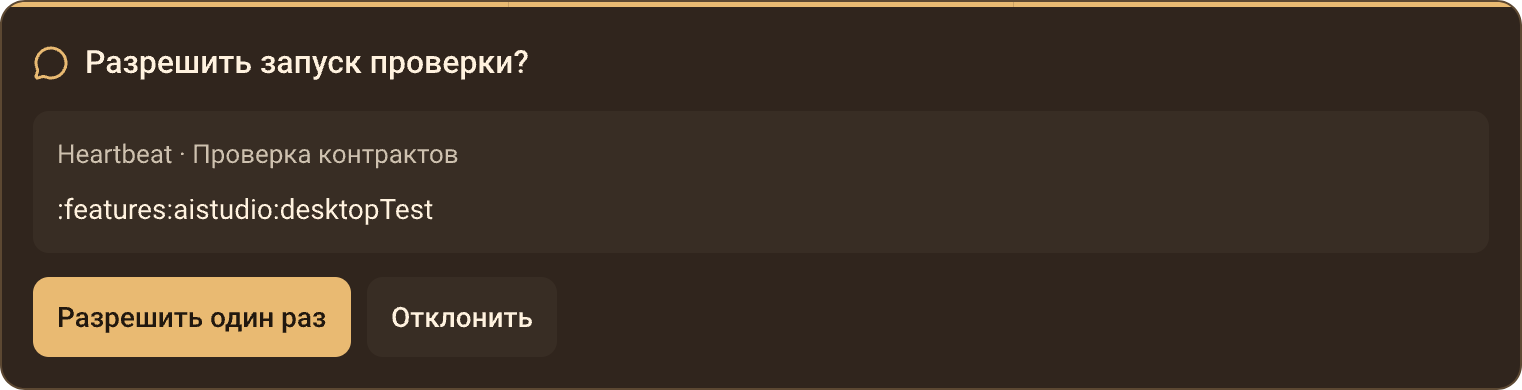
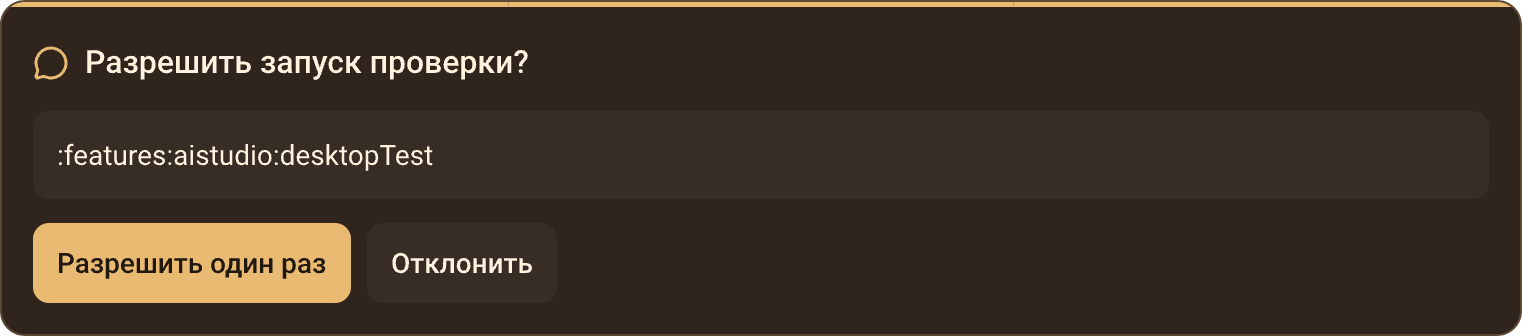
Remove redundant project label from permission details

diff --git a/plans/aurora-chat-behavior.md b/plans/aurora-chat-behavior.md
@@ -142,7 +142,7 @@ Claude Code, Sonnet 4.5, «Среднее», проценты и квота за
 - Общая структура: title запроса и навигация в шапке → короткая ошибка при наличии → содержимое ответа → поле/действия. Общая строка «Нужен ваш ответ», повторный title в теле и футер удалены по прямому поручению оператора. По последнему поручению оператора subtitle и любые вспомогательные пояснения удалены. Сверху, под шапкой, находится только ошибка локальной проверки ответа. Все ответы набора объединяются в одно сообщение или результат инструмента. При общей отправке вопросы сразу исчезают и возвращается обычное поле ввода, без ожидания сервера; при сбое ошибочным выделяется соответствующий объект истории. Ошибки отправки и кнопки «Повторить» в опроснике нет. Один вопрос за раз. При узкой ширине строки переносятся; цели Android остаются 48. Большой текст увеличивает поверхность, а не обрезается.
 - «Далее» только переключает на следующий вопрос, сохраняя локальный черновик; ничего не отправляет и не блокирует переход проверкой. «Назад» сохраняет все введённые ответы, выбранные варианты и комментарии всего набора по id вопросов; повторное открытие восстанавливает их без сброса. «Пропустить» только локально отмечает необязательный вопрос пропущенным и переключает на следующий; ничего не отправляет. Ответ на ранее пропущенный вопрос сразу снимает отметку пропуска; возврат или фокус без ответа её сохраняют. Очистка ответа сама по себе не ставит пропуск. На последнем вопросе отметка не закрывает опросник: остаётся явное «Отправить». Даже все пропуски отправляются только этой общей кнопкой. «Отправить» на последнем вопросе проверяет весь набор и отправляет все вопросы и ответы одним объектом истории. Опросник сразу исчезает, возвращается прежний черновик обычного ввода. Отправка и повтор не создают отдельные сообщения для каждого вопроса и не возвращают опросник.
 - Выбор + комментарий и собственный текст доступны при `isFreeTextAllowed`. Видимая подпись над полем и кнопка «Снять выбор» удалены. Доступное имя поля сохраняется в семантике; без выбранных вариантов текст является собственным ответом, с выбранными — комментарием. Если источник принимает только предложенные варианты, поле не показывается. Confirm с комментарием сохраняет выбранное Да/Нет и текст до общей отправки «Отправить».
-- Строгое разрешение показывает действие, цель, аргументы, контекст и область решения. «Разрешить один раз» / «Отклонить» отправляют решение напрямую. Дополнительного radio-выбора, свободного текста и общего подтверждения нет. Нажатие Enter на явно сфокусированной кнопке выполняет её действие; общий Enter не выдаёт разрешения.
+- Строгое разрешение показывает действие, цель, аргументы и область решения. Отдельная строка проекта/агента удалена. «Разрешить один раз» / «Отклонить» отправляют решение напрямую. Дополнительного radio-выбора, свободного текста и общего подтверждения нет. Нажатие Enter на явно сфокусированной кнопке выполняет её действие; общий Enter не выдаёт разрешения.
 - Полоса таймера не является индикатором отправки. Для необязательного набора бюджет из PR: 60 секунд на выбор или 120 на текст плюс чтение по 20 символов/с, до 600 секунд; начало после публикации. Навигация не перезапускает отсчёт. Обязательный/важный вопрос или Confirm отключает таймаут всего набора; строгие разрешения также без таймера. В этих случаях полоса полная и неподвижная. Общего текстового футера, в том числе «Без таймера», нет; состояние срока сохраняется в доступном описании полосы.
 - По последующему уточнению оператора любое взаимодействие с опросником, включая получение фокуса, наведение, нажатие/касание, ввод, выбор, выделение текста, прокрутку и навигацию, окончательно останавливает таймер всего набора. Полоса замирает на текущей длине; доступное состояние — «Таймер остановлен». Потеря фокуса, уход указателя, закрытие клавиатуры, переход между вопросами и восстановление сессии не возобновляют отсчёт. Таймаут возможен только до первого взаимодействия; после него оставшиеся вопросы не закрываются автоматически. Футер не возвращается.
 - Истечение срока закрывает без решения только набор, с которым ещё не взаимодействовали. После первого взаимодействия оставшиеся вопросы не могут истечь. Снятие запроса не отправляет черновик. В истории остаётся неинтерактивный результат, обычный ввод восстанавливается. Истечение времени никогда не означает разрешение.

diff --git a/plans/aurora-chat-content.md b/plans/aurora-chat-content.md
@@ -30,7 +30,7 @@ Permission Request и User Input Request — доверенные элемент
 
 Title самого запроса занимает шапку рядом с иконкой. Общей строки «Нужен ваш ответ» и повторного заголовка в теле нет. Subtitle, любые футеры и вспомогательные пояснения удалены. Цвет и верхняя полоса таймера сохранены. Только локальная ошибка проверки ответа располагается сверху, под шапкой. Ошибок отправки в панели нет: ответ уходит сообщением или результатом инструмента, и при сбое ошибочным выделяется этот объект истории.
 
-Единая панель описана в [стандарте запросов](aurora-decision-panel.md). По уточнению оператора сохраняются тёплый цвет референса PR #513 и верхняя полоса таймера. Строгое разрешение показывает конкретное действие, цель, аргументы, проект и область решения; кнопки «Разрешить один раз» / «Отклонить» непосредственно отправляют решение. Дополнительных radio-выбора, поля комментария и кнопки «Подтвердить» у строгого разрешения нет. Предвыбор и истечение времени не дают разрешения; общий Enter не запускает согласие.
+Единая панель описана в [стандарте запросов](aurora-decision-panel.md). По уточнению оператора сохраняются тёплый цвет референса PR #513 и верхняя полоса таймера. Строгое разрешение показывает конкретное действие, цель, аргументы и область решения; кнопки «Разрешить один раз» / «Отклонить» непосредственно отправляют решение. Дополнительных radio-выбора, поля комментария и кнопки «Подтвердить» у строгого разрешения нет. Предвыбор и истечение времени не дают разрешения; общий Enter не запускает согласие.
 
 Опросник показывает один вопрос за раз: вертикальные radio/checkbox-варианты, поле без дополнительной подписи над ним и «Далее / Отправить». Дополнительный текст доступен только при поддержке источником: выбранный вариант и комментарий отправляются вместе; при отсутствии выбранных вариантов отправляется собственный текст. Кнопки «Снять выбор» нет; доступное имя поля сохраняется в семантике. Поле не скрывается за вариантом «Другое». Confirm с комментарием сохраняет Да/Нет до общей отправки «Отправить». На Android клавиатура появляется только по фокусу поля. «Далее» и «Назад» только переключают вопросы, сохраняя локальный черновик; ничего не отправляют. «Назад» сохраняет все введённые ответы, варианты и комментарии набора; при возвращении они восстанавливаются. «Пропустить» локально отмечает вопрос пропущенным и переключает на следующий без отправки. Если вернуться и ответить на пропущенный вопрос, отметка снимается сразу. Возврат или фокус без ответа не снимают пропуск. На последнем вопросе остаётся явная кнопка «Отправить», автоматического закрытия нет. Проверка и отправка всего набора, включая отметки пропуска, выполняются только по «Отправить». По «Отправить» вопросы и ответы всего набора объединяются в одно сообщение или результат инструмента согласно источнику запроса. Все вопросы сразу уходят из активной области; опросник исчезает и возвращается composer с прежним черновиком и вложениями, без ожидания подтверждения сервера. Сбой и повтор принадлежат этому объекту истории, с тем же ID; панель опросника не превращается в форму повторной отправки. Отклонение разрешения возвращает агенту отказ без выполнения запрещённого действия.
 

diff --git a/plans/aurora-decision-panel.md b/plans/aurora-decision-panel.md
@@ -65,7 +65,7 @@
 | Свободный ответ | Поле без отдельной видимой подписи | «Далее» / «Отправить» |
 | Выбор + текст | Список, затем поле без отдельной видимой подписи | Выбор и комментарий сохраняются вместе; если варианты не выбраны, непустой текст является собственным ответом |
 | Confirm + комментарий | Выбор Да/Нет или конкретных подписей из запроса, затем поле комментария | Выбор сохраняется локально до общей отправки «Отправить» |
-| Строгое разрешение | Действие, цель, аргументы, проект/агент, область решения и конкретные кнопки | «Разрешить один раз» / «Отклонить» отправляют решение непосредственно |
+| Строгое разрешение | Действие, цель, аргументы, область решения и конкретные кнопки | «Разрешить один раз» / «Отклонить» отправляют решение непосредственно |
 
 Поле дополнительного текста доступно только при явно поддерживаемой возможности источника (`isFreeTextAllowed`); у строгого разрешения его нет. Для native Codex сохраняется opt-in из PR. Не обещать произвольный текст для источника, принимающего только заданные варианты. Confirm с текстом входит в общий ответ согласно возможности источника; он не преобразуется в отдельное строгое разрешение.
 
@@ -250,3 +250,7 @@
 Прямое уточнение оператора: ответ на ранее пропущенный вопрос снимает отметку пропуска. «Назад» сохраняет все введённые ответы. Контракт одинаков для desktop и Android: состояние хранится по id вопроса, включая выбор, текст и комментарий. Возврат/фокус без ответа оставляет пропуск; фактический ответ снимает его. В общий объект попадает ответ без отметки пропуска. Очистка ответа не устанавливает пропуск автоматически — его ставит только «Пропустить».
 
 Направление и геометрия панели сохраняются. Обновлены контексты поля, вариантов и навигации, правило листа 40. Сценарии приёмки для реализации: пропустить → назад → ответить → перейти дальше; ввести ответы на двух вопросах → назад/вперёд; вернуться без ввода; отправить набор с исправленным пропуском. Статический макет описывает эти переходы, но не исполняет их.
+
+## Удаление строки проекта и агента
+
+По прямому поручению оператора удаляется строка «Heartbeat · Проверка контрактов» (`tqVSP`) из общего блока подробностей разрешения, на desktop и Android. Аудит: строка повторяет контекст и добавляет лишний уровень текста. Принятое направление сохраняется: разрешение конкретного действия; краткий и точный характер; существующая поверхность; операция и кнопки как акценты; верхняя полоса. В блоке остаются аргументы операции, без пустого отступа на месте удалённой строки.
